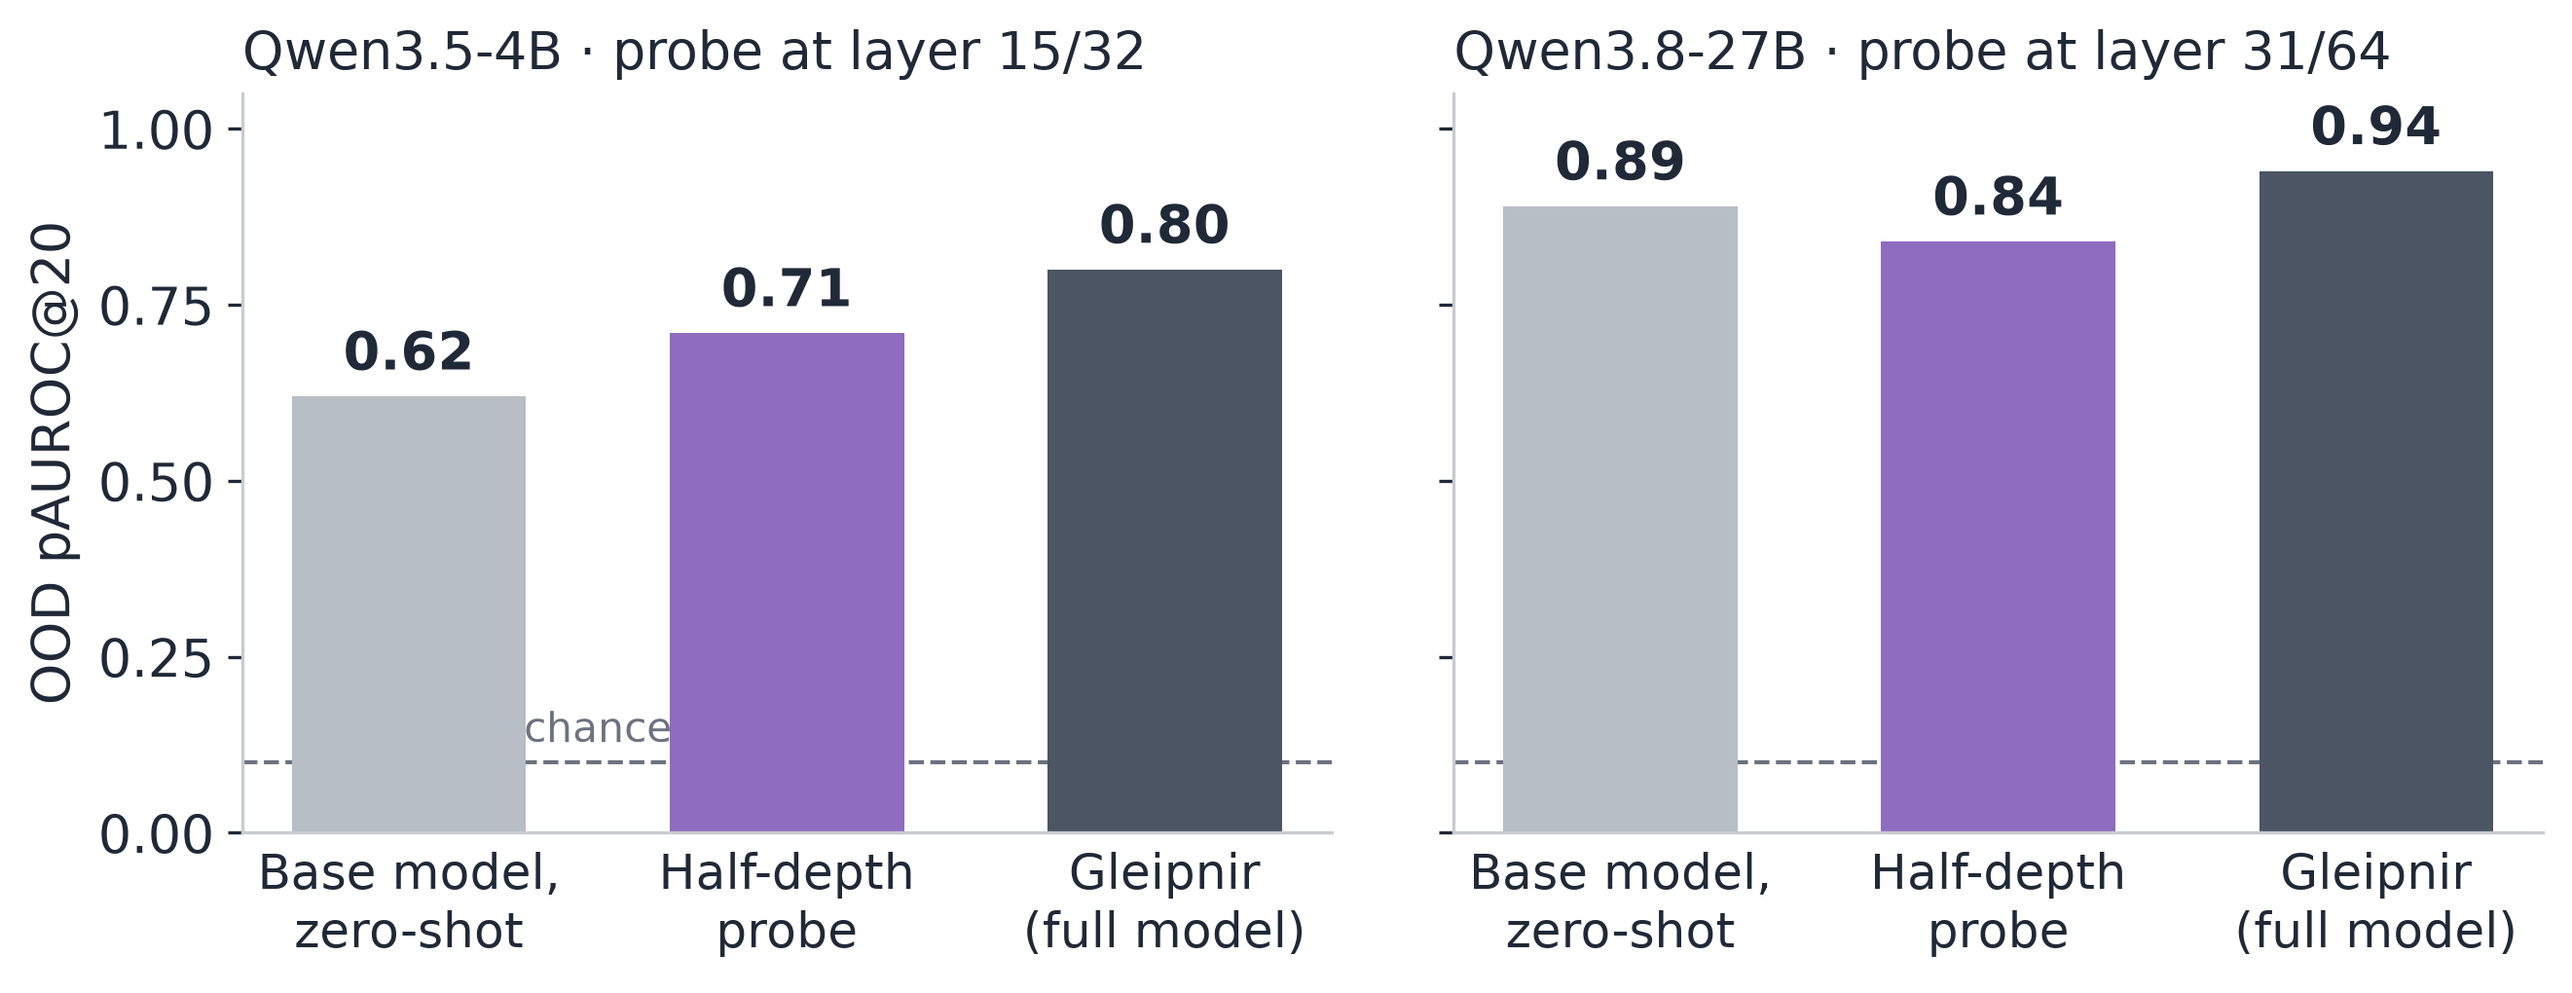
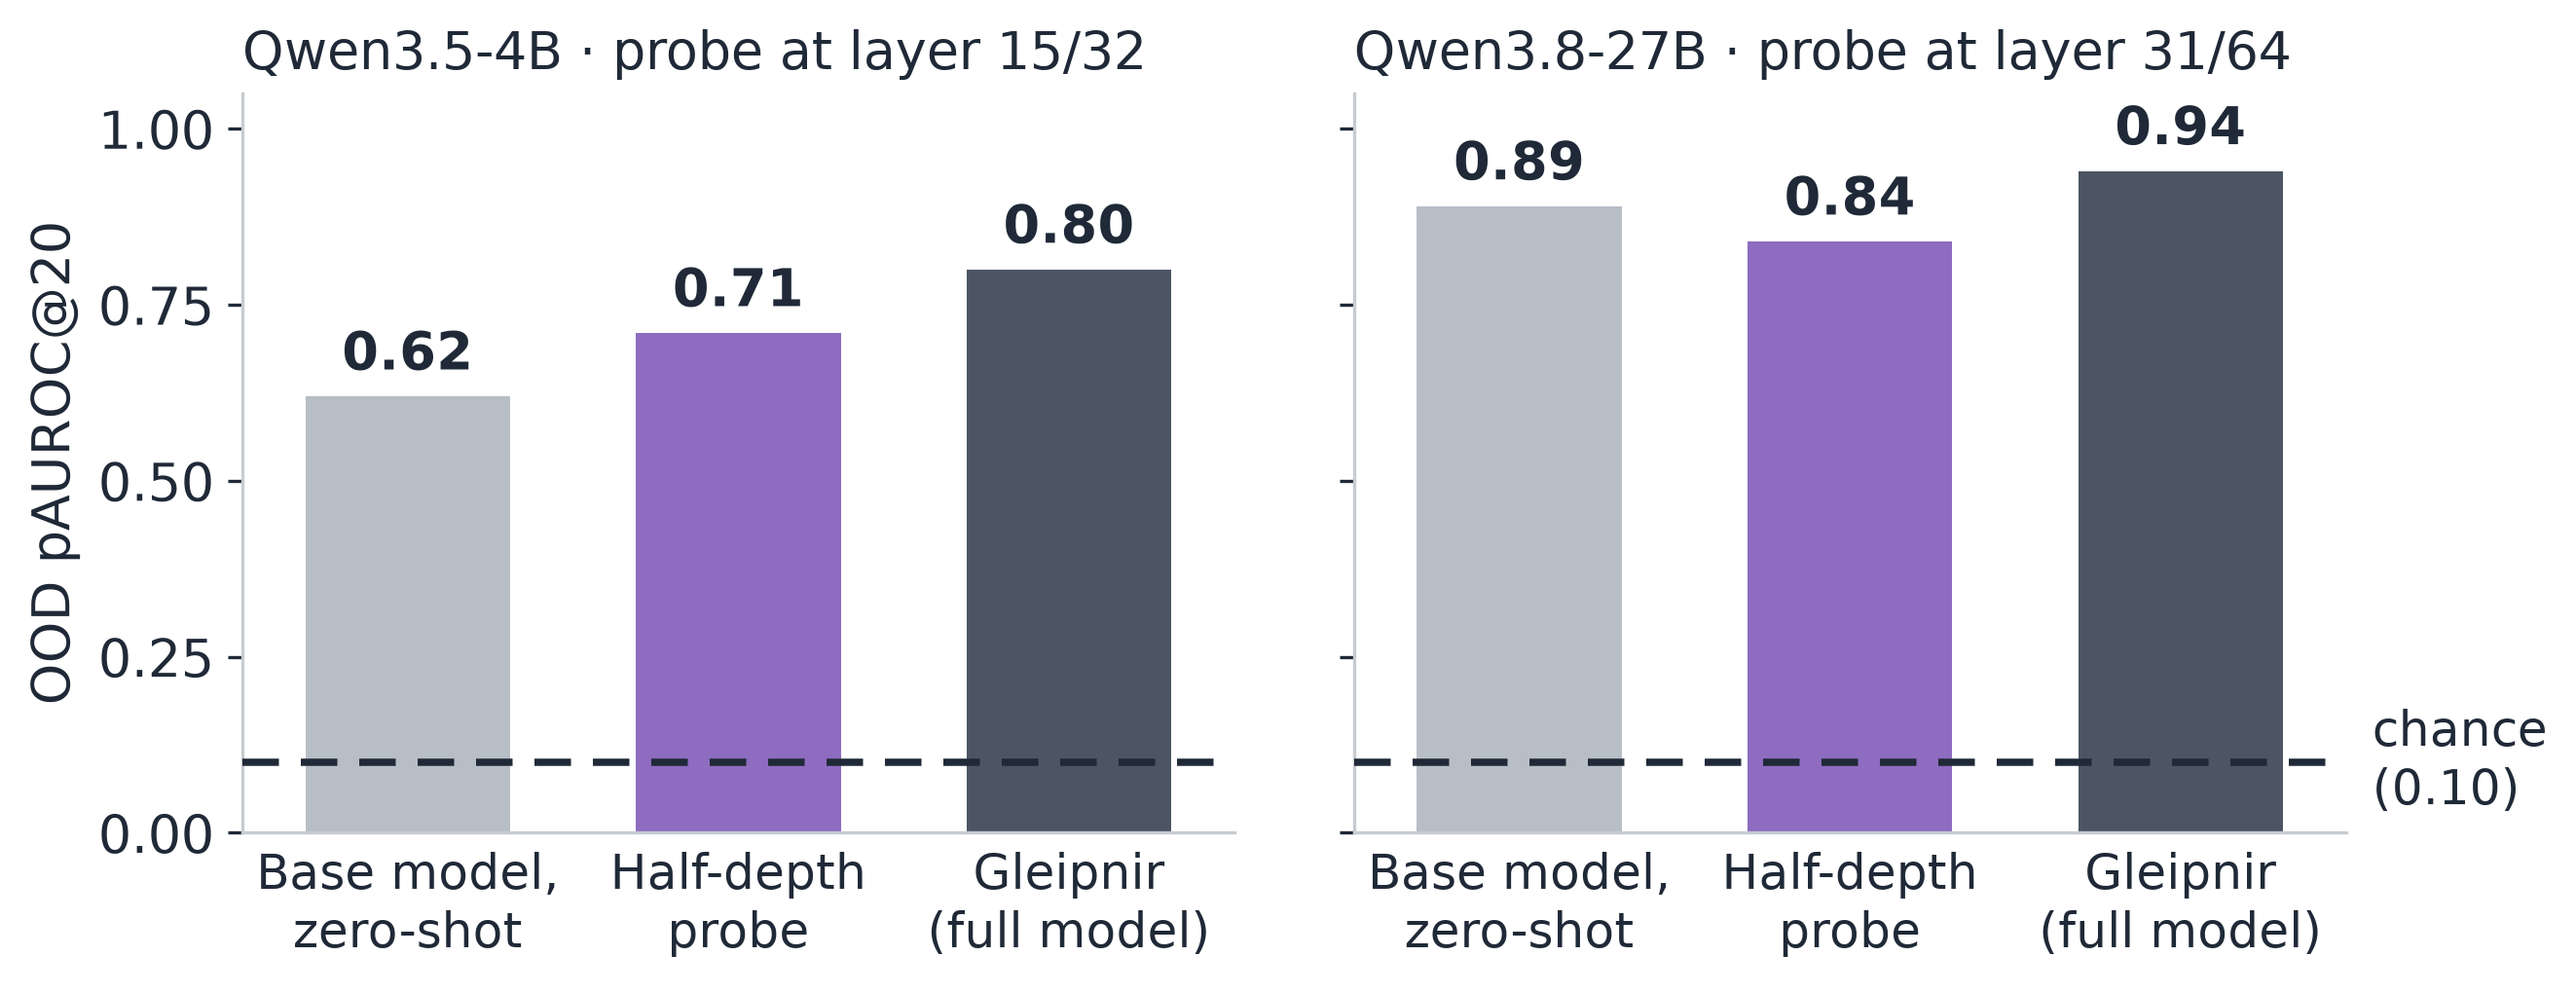
Make the chance line on the probe bar chart easier to see

diff --git a/scripts/plot_hard_probe_bars_slide.py b/scripts/plot_hard_probe_bars_slide.py
@@ -60,7 +60,8 @@ def plot(output_dir: Path) -> None:
         for x, v in zip(xs, vals, strict=True):
             ax.text(x, v + 0.02, f"{v:.2f}", ha="center", va="bottom",
                     color=INK, fontsize=13, fontweight="bold")
-        ax.axhline(0.1, color=MUTED, lw=1, ls="--", zorder=0)
+        ax.axhline(0.1, color=INK, lw=1.8, ls=(0, (5, 3)), zorder=3)
+        ax.set_xlim(-0.5, 2.5)
         ax.set_xticks(list(xs))
         ax.set_xticklabels([row[0] for row in ROWS], fontsize=12)
         ax.set_title(title, color=INK, fontsize=13, loc="left")
@@ -68,8 +69,8 @@ def plot(output_dir: Path) -> None:
     axes[0].set_ylim(0, 1.05)
     axes[0].set_yticks([0, 0.25, 0.5, 0.75, 1.0])
     axes[0].set_ylabel("OOD pAUROC@20")
-    axes[0].text(0.5, 0.115, "chance", color=MUTED, fontsize=10,
-                 ha="center", va="bottom")
+    axes[1].text(2.58, 0.1, "chance\n(0.10)", color=INK, fontsize=12,
+                 ha="left", va="center", clip_on=False)
     fig.tight_layout(w_pad=2.0)
     output_dir.mkdir(parents=True, exist_ok=True)
     for ext in ("svg", "png"):
